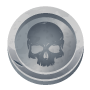
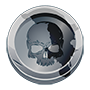
Update images, add tooltip

diff --git a/src/components/WarhammerMoneyModal/WarhammerMoneyModal.tsx b/src/components/WarhammerMoneyModal/WarhammerMoneyModal.tsx
@@ -1,7 +1,8 @@
-import React, { useRef, useState } from 'react';
+import React, { useEffect, useRef, useState } from 'react';
 import classNames from 'classnames';
 import Modal from 'react-bootstrap/Modal';
 import Button from 'react-bootstrap/Button';
+import InfoTooltip from '../InfoTooltip/InfoTooltip';
 import { FontAwesomeIcon } from '@fortawesome/react-fontawesome';
 import { faPlus, faMinus, faEquals, faBalanceScaleLeft, faTrash } from '@fortawesome/free-solid-svg-icons';
 import { MoneyType, MoneyStateTypes, OperationsTypes, WarhammerMoneyModalProps } from './WarhammerMoneyModalTypes';
@@ -16,9 +17,6 @@ function WarhammerMoneyModal({
 	warhammerMoneyRecalculated
 }: WarhammerMoneyModalProps
 ) {
-// 	Standard coin values are:
-// 1 gold crown (1GC) = 20 silver shillings (20/–) = 240
-// brass pennies (240d)
 	const initialMoneyState = {
 		[MONEY_GOLD]: '0',
 		[MONEY_SILVER]: '0',
@@ -29,6 +27,10 @@ function WarhammerMoneyModal({
 	const [moneyResultState, setMoneyResultState] = useState<MoneyStateTypes>(initialMoneyState);
 	const [operationState, setOperationState] = useState<OperationsTypes>('ADD');
 	const sendToDiscordRef = useRef<HTMLInputElement>(null);
+
+	useEffect(() => {
+		setMoneyResultState(initialMoneyState);
+	}, [moneyToAddState, moneyState, operationState]);
 
 	const handleClearMoneyState = () => {
 		setMoneyState(initialMoneyState);
@@ -128,6 +130,13 @@ function WarhammerMoneyModal({
 		const { value } = event.target;
 	};
 
+	const tooltipContent = (
+		<>
+			<p><span className={styles.silver}>1 silver shilling (1 ss)</span> = <span className={styles.brass}>12 brass pennies (12 d)</span></p>
+			<p><span className={styles.gold}>1 gold crown (1 GC)</span> = <span className={styles.silver}>20 ss</span> = <span className={styles.brass}>240 d</span></p>
+		</>
+	);
+
 	return (
 		<Modal show={showModal} onHide={closeModal} size="lg">
 			<Modal.Header closeButton>
@@ -135,46 +144,52 @@ function WarhammerMoneyModal({
 			</Modal.Header>
 			<Modal.Body>
 				<div className={styles.container}>
+					<InfoTooltip
+						content={tooltipContent}
+						className={styles.infoTooltip}
+						containerClassName={styles.infoTooltipContainer}
+						placement="bottom"
+					/>
 					<div className={styles.row}>
 					<div className={classNames([styles.cell, styles.cellCenter])}>
-							Your money:
-						</div>
-						<div className={styles.cell}>
-							<PoolBuilderDie
-								title="Gold crowns"
-								diceType={MONEY_GOLD}
-								diceImg="warhammer_money/gold.png"
-								value={moneyState[MONEY_GOLD]}
-								onChange={onChange}
-								onIncrease={onIncreaseCurrent}
-								onDecrease={onDecreaseCurrent}
-								isDiceImgLarge={true}
-							/>
-						</div>
-						<div className={styles.cell}>
-							<PoolBuilderDie
-								title="Silver shillings"
-								diceType={MONEY_SILVER}
-								diceImg="warhammer_money/silver.png"
-								value={moneyState[MONEY_SILVER]}
-								onChange={onChange}
-								onIncrease={onIncreaseCurrent}
-								onDecrease={onDecreaseCurrent}
-								isDiceImgLarge={true}
-							/>
-						</div>
-						<div className={styles.cell}>
-							<PoolBuilderDie
-								title="Brass pennies"
-								diceType={MONEY_BRASS}
-								diceImg="warhammer_money/brass.png"
-								value={moneyState[MONEY_BRASS]}
-								onChange={onChange}
-								onIncrease={onIncreaseCurrent}
-								onDecrease={onDecreaseCurrent}
-								isDiceImgLarge={true}
-							/>
-						</div>
+						Current money:
+					</div>
+					<div className={styles.cell}>
+						<PoolBuilderDie
+							title="Gold crowns"
+							diceType={MONEY_GOLD}
+							diceImg="warhammer_money/gold.png"
+							value={moneyState[MONEY_GOLD]}
+							onChange={onChange}
+							onIncrease={onIncreaseCurrent}
+							onDecrease={onDecreaseCurrent}
+							isDiceImgLarge={true}
+						/>
+					</div>
+					<div className={styles.cell}>
+						<PoolBuilderDie
+							title="Silver shillings"
+							diceType={MONEY_SILVER}
+							diceImg="warhammer_money/silver.png"
+							value={moneyState[MONEY_SILVER]}
+							onChange={onChange}
+							onIncrease={onIncreaseCurrent}
+							onDecrease={onDecreaseCurrent}
+							isDiceImgLarge={true}
+						/>
+					</div>
+					<div className={styles.cell}>
+						<PoolBuilderDie
+							title="Brass pennies"
+							diceType={MONEY_BRASS}
+							diceImg="warhammer_money/brass.png"
+							value={moneyState[MONEY_BRASS]}
+							onChange={onChange}
+							onIncrease={onIncreaseCurrent}
+							onDecrease={onDecreaseCurrent}
+							isDiceImgLarge={true}
+						/>
+					</div>
 					</div>
 					<div className={styles.row}>
 					<div className={classNames([styles.cell, styles.cellCenter])}>

diff --git a/src/components/WarhammerMoneyModal/WarhammerMoneyModal.module.css b/src/components/WarhammerMoneyModal/WarhammerMoneyModal.module.css
@@ -1,9 +1,5 @@
 .container {
-
-}
-
-.row {
-
+	position: relative;
 }
 
 .rowResults {
@@ -59,6 +55,10 @@
 	cursor: pointer;
 }
 
+.checkbox input {
+	margin-top: 6px;
+}
+
 .buttonsContainerOperations {
 	position: absolute;
 	display: grid;
@@ -84,6 +84,33 @@
 	background: grey;
 	border-color: grey;
 	opacity: 0.6;
+}
+
+.infoTooltip {
+	position: absolute;
+	top: 3px;
+	left: 138px;
+	z-index: 9;
+}
+
+.infoTooltipContainer :global(.tooltip-inner) {
+	padding-top: 15px;
+	padding-bottom: 10px;
+	max-width: 420px;
+	text-align: left;
+	font-weight: bold;
+}
+
+.gold {
+	color: gold;
+}
+
+.silver {
+	color: silver;
+}
+
+.brass {
+	color: #ad6314;
 }
 
 @media only screen and (min-width: 480px) {

diff --git a/src/components/InfoTooltip/InfoTooltip.tsx b/src/components/InfoTooltip/InfoTooltip.tsx
@@ -13,9 +13,16 @@ type infoTooltipPropType = {
 	type?: string
 	placement?: Placement
 	className?: string
+	containerClassName?: string
 }
 
-function InfoTooltip({ content, type, placement='top', className='' }: infoTooltipPropType) {
+function InfoTooltip({
+	content,
+	type,
+	placement='top',
+	className='',
+	containerClassName=''
+}: infoTooltipPropType) {
 	const id = `tooltip-${getRandom(999)}`;
 	let icon;
 
@@ -30,7 +37,7 @@ function InfoTooltip({ content, type, placement='top', className='' }: infoToolt
 			placement={placement}
 			delay={100}
 			overlay={
-				<Tooltip id={id}>
+				<Tooltip id={id} className={containerClassName}>
 					<>{ content }</>
 				</Tooltip>
 			}
